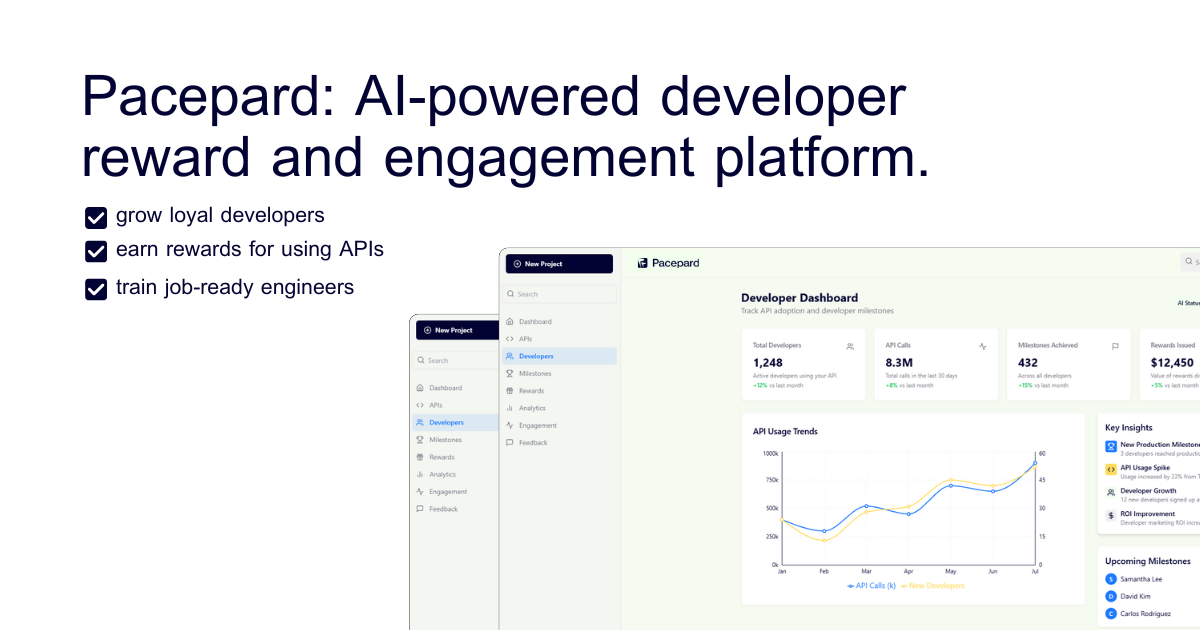
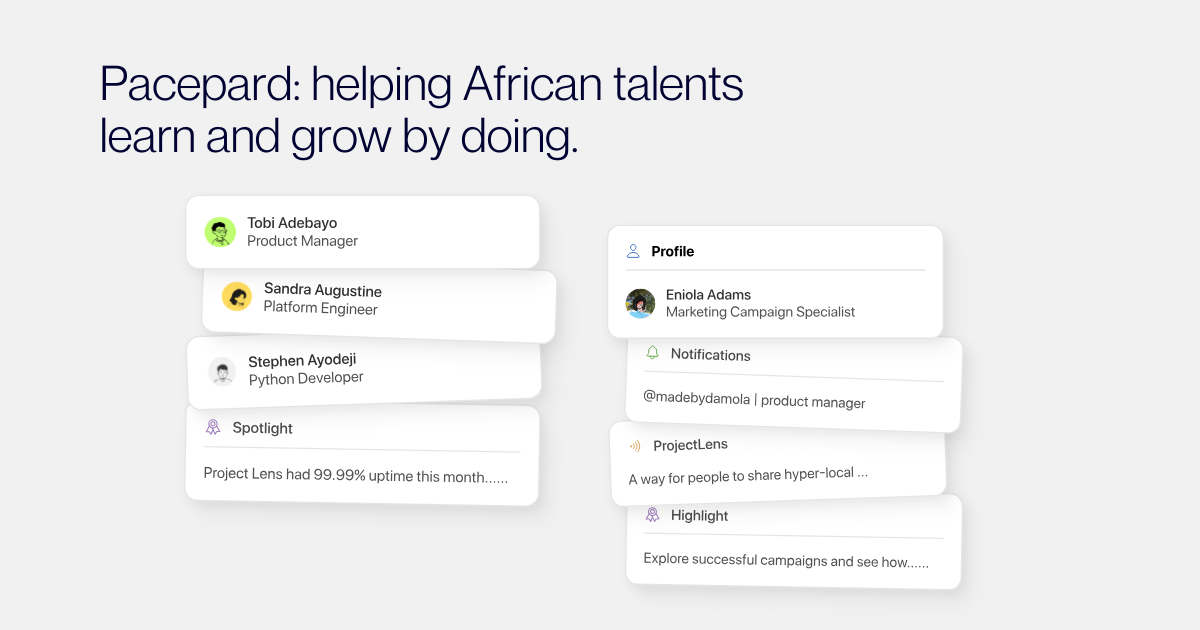
feat: added a modern og-image

diff --git a/README.md b/README.md
@@ -1,67 +1,55 @@
 
 <img src="/blocks/pacepard.svg" alt="Pacepard Logo" width="400">
 
-## Pacepard Application (website)
+## Pacepard (website)
 
-### AI-powered developer reward and engagement platform.
+### Helping African talents learn and grow by doing..
 
-> Pacepard is an AI-Powered developer reward and engagement software. Pacepard helps API and DevTools Companies grow loyal developers through usage tracking and rewards. Boost API adoption with gamification, smart rewards, and developer insights.
+> Pacepard is a reward and engagement software for talents and product teams.  We support the development of Open Source Software that solves problems faced daily by Africans, and we are creating points of entry into machine learning research.
 
-By using Pacepard, developers, companies, and EdTech providers can collaborate, track talent progress, and host challenges while leveraging AI-powered engagement analytics.
+By using Pacepard, African talents, organisations, and EdTech providers can collaborate, track talent skill mastery progress, and host competitions while leveraging our AI-powered engagement analytics.
 
-## Introduction
 
-API companies want developers to use their APIs regularly, but keeping them engaged is a struggle. They spend tons of money on marketing, events, and sponsorships, yet most developers try an API once and never come back.  
-
-On the other hand, developers—whether beginners or experienced—need different things to stay motivated. Some want easier ways to learn, while others look for meaningful rewards or ways to build their reputation.  
-
-That’s where **Pacepard** comes in.  
-
-Pacepard is an AI-powered platform that helps API and DevTools companies **track developer engagement, reward usage, and build long-term loyalty**. Instead of just hoping developers stick around, companies can now see exactly how their APIs are being used, identify top contributors, and automatically offer rewards that keep developers coming back.  
-
-For developers, Pacepard makes API adoption more rewarding—literally. Whether it’s earning points, unlocking premium features, or gaining credibility with verified achievements, using APIs now comes with real benefits.  
-
-The bottom line? API adoption shouldn’t be a guessing game. **Pacepard turns developer engagement into a smart, trackable, and rewarding experience.**
+The bottom line? Gaining mastery be a guessing game. **Pacepard turns talent education and skill mastery into a smart, trackable, and rewarding experience.**
 
 
 ## Core Features
 
 ### Usage Analytics
 
-- **Real-time API adoption monitoring** — track developer engagement across projects.  
+- **Real-time API adoption monitoring** — track talent engagement across projects.  
 - **Predictive churn insights** — identify inactive users before they drop off.  
 - **Power user identification** — spot top contributors & automate personalized incentives.  
-- **Behavior-driven recommendations** — understand what features developers use most & optimize accordingly.  
+- **Behavior-driven recommendations** — understand what features talents use most & optimize accordingly.  
 
 ### Rewards & Loyalty Engine
 
 - **Dynamic API rewards** — API credits, discounts, premium access, and cash bonuses.  
 - **Points-based, tiered, & subscription rewards** — continuous engagement earns exclusive perks.  
 - **Risk-free API testing with sandbox environments** — encourages more experimentation.  
-- **Project-powered certifications & badges** — help developers build credibility while using APIs.  
+- **Project-powered certifications & badges** — help talents build credibility while using APIs.  
 
 ### Gamification & Engagement
 
 - **Gamified achievements** — badges, leaderboards, and milestone-based rewards.  
 - **Leaderboard-based incentives** — recognition for top API users & contributors.  
 - **Hackathons & coding challenges** — structured competitions that reward API adoption.  
-- **Developer quests & milestone-based learning** — progress through levels based on API usage.  
+- **talent quests & milestone-based learning** — progress through levels based on API usage.  
 - **Community challenges** — peer-driven incentives for API adoption & collaboration.  
 
 ### Loyalty Campaigns
 
-- **Automated engagement campaigns** — target developers with personalized outreach.  
-- **Referral & advocacy programs** — reward developers for bringing in new users.  
-- **Loyalty emails & notifications** — keep developers engaged with updates & reward reminders.  
-- **API usage-based perks** — automatically unlock benefits as developers increase API calls.  
+- **Automated engagement campaigns** — target talents with personalized outreach.  
+- **Referral & advocacy programs** — reward talents for bringing in new users.  
+- **Loyalty emails & notifications** — keep talents engaged with updates & reward reminders.  
+- **API usage-based perks** — automatically unlock benefits as talents increase API calls.  
 
 
 ## Technologies
 
 - **TypeScript**: For robust type checking and cleaner codebase.
 - **React (Frontend)**: Modern frontend framework for a responsive and interactive user interface.
-- **Hosting**: The site is hosted on **AWS S3** with **CloudFront** for global content delivery.  
-- **Domain**: Managed via **Namecheap**.  
+Managed via **Namecheap**.  
 - **SSL Security**: Provided by **AWS Certificate Manager (ACM)** for secure connections.  
 
 
